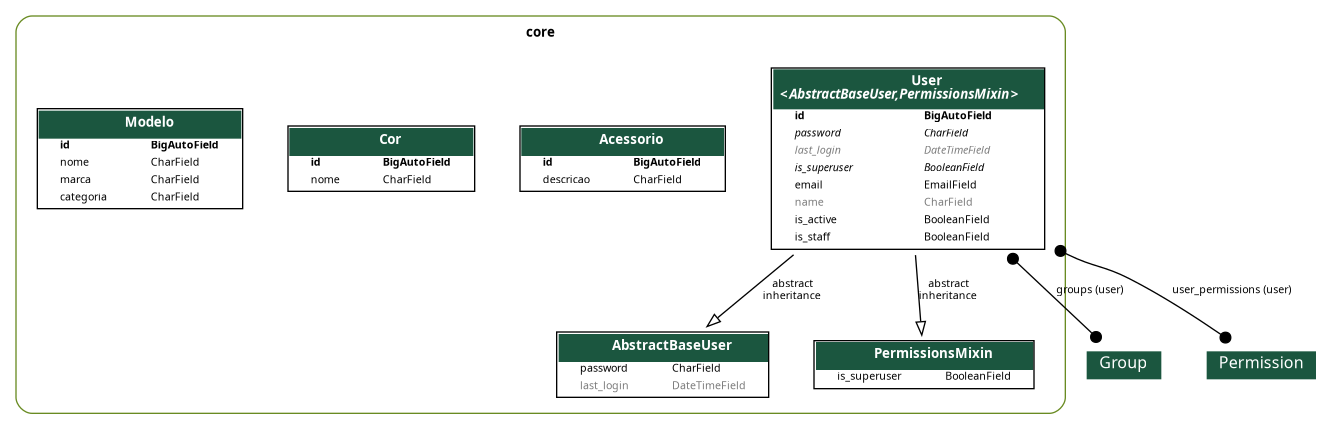
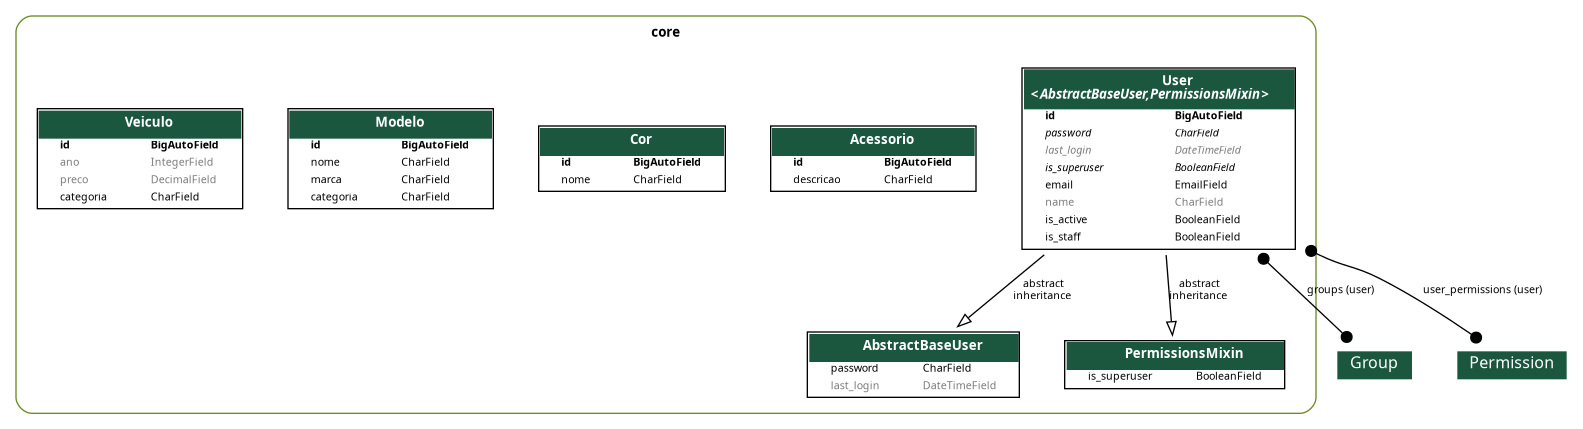
Feat : Criação da model veiculo

diff --git a/core/migrations/0010_veiculo.py b/core/migrations/0010_veiculo.py
@@ -1,0 +1,22 @@
+# Generated by Django 5.2.12 on 2026-03-24 12:25
+
+from django.db import migrations, models
+
+
+class Migration(migrations.Migration):
+
+    dependencies = [
+        ('core', '0009_modelo_alter_cor_options'),
+    ]
+
+    operations = [
+        migrations.CreateModel(
+            name='Veiculo',
+            fields=[
+                ('id', models.BigAutoField(auto_created=True, primary_key=True, serialize=False, verbose_name='ID')),
+                ('ano', models.IntegerField(blank=True, default=0, null=True)),
+                ('preco', models.DecimalField(blank=True, decimal_places=2, max_digits=10, null=True)),
+                ('categoria', models.CharField(max_length=80)),
+            ],
+        ),
+    ]

diff --git a/core/models/veiculo.py b/core/models/veiculo.py
@@ -1,0 +1,10 @@
+from django.db import models
+
+
+class Veiculo(models.Model):
+    ano = models.IntegerField(default=0, null=True, blank=True)
+    preco = models.DecimalField(max_digits=10, decimal_places=2, null=True, blank=True)
+    categoria = models.CharField(max_length=80)
+
+    def __str__(self):
+        return str(self.id) + " " + self.nome

diff --git a/core/admin.py b/core/admin.py
@@ -55,3 +55,4 @@ admin.site.register(models.User, UserAdmin)
 admin.site.register(models.Acessorio)
 admin.site.register(models.Cor)
 admin.site.register(models.Modelo)
+admin.site.register(models.Veiculo)

diff --git a/core/models/__init__.py b/core/models/__init__.py
@@ -3,3 +3,4 @@ from .user import User
 from .acessorio import Acessorio
 from .cor import Cor
 from .modelo import Modelo
+from .veiculo import Veiculo
